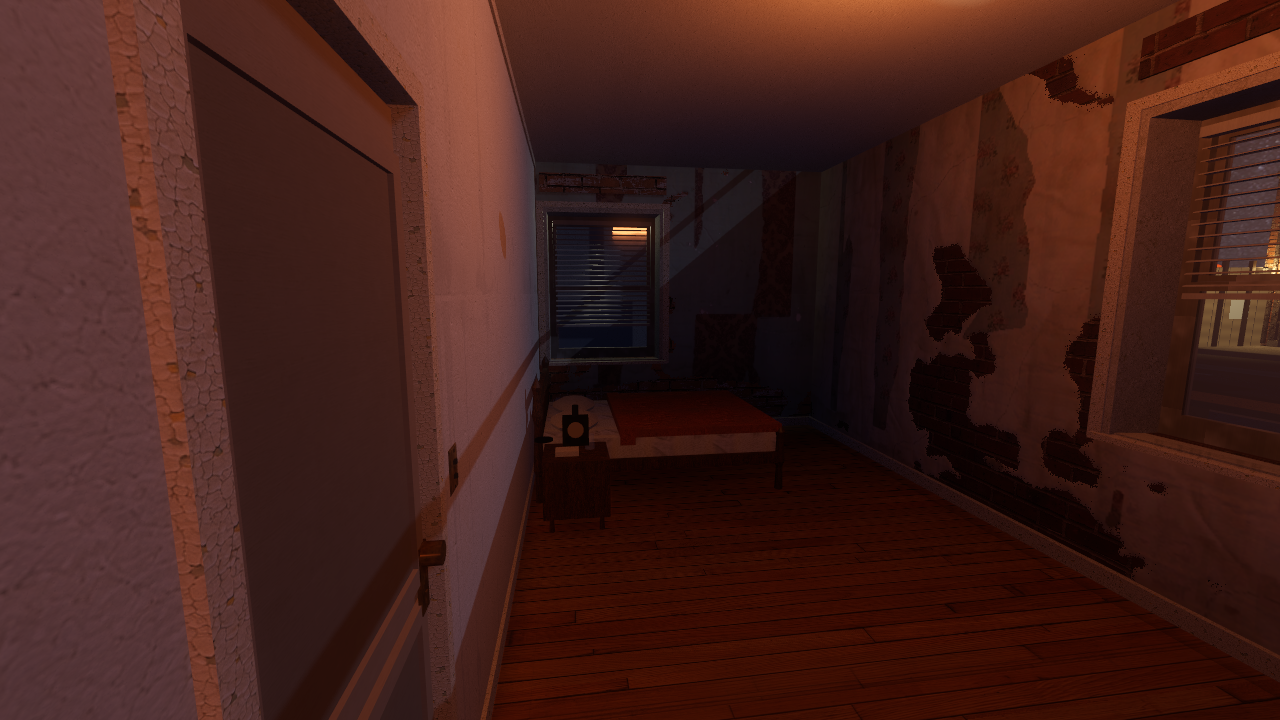
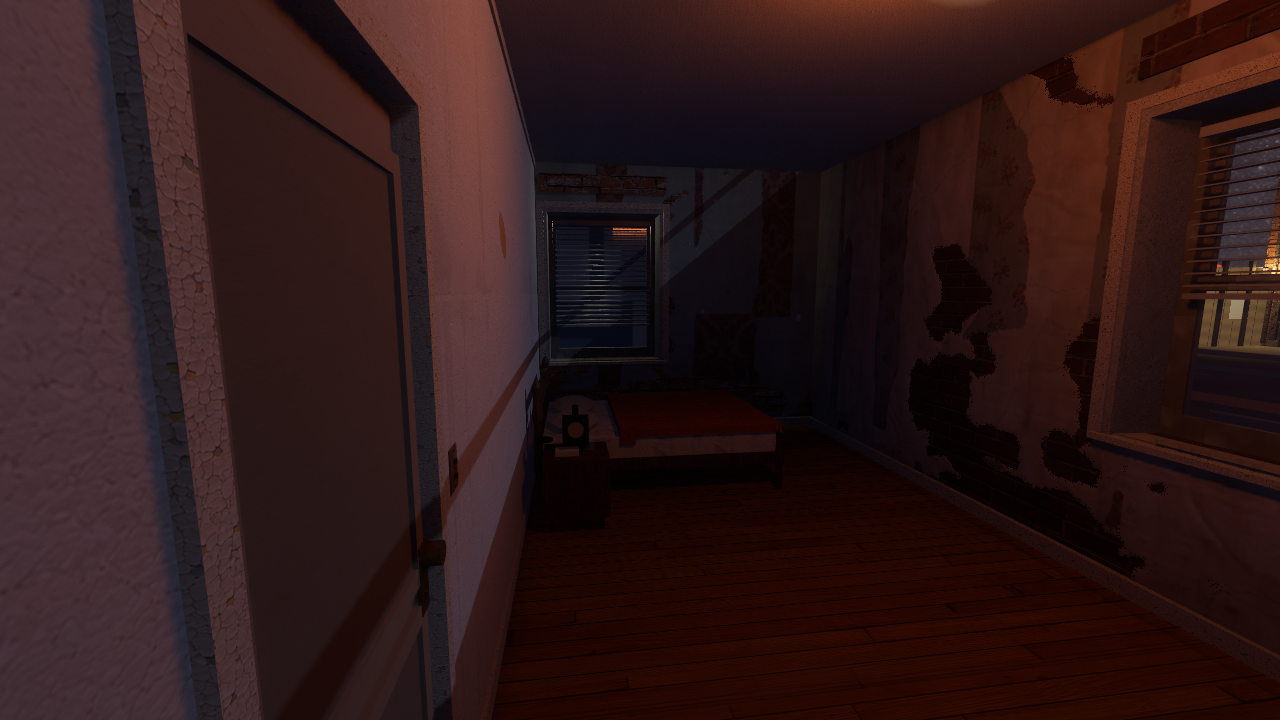
Remove projected cookie from 1D proof

diff --git a/design/ORISON_F01_1D_BEDROOM_CHECKPOINT_2026-08-27.md b/design/ORISON_F01_1D_BEDROOM_CHECKPOINT_2026-08-27.md
@@ -26,6 +26,9 @@ exterior storm effect, remains correctly outside room ownership.
 Player-height evidence is in
 `art/renders/orison_room_reconstruction/f01_1d_bedroom_checkpoint_01/`:
 `00_bedroom_from_door.png` and `01_bedside_clearance.png`.
+The proof suite uses the room circuit alone. Its former redundant player lamp
+could stamp an asynchronously baked rug-like cookie across the wall; the clean
+fixture-only recapture replaces both affected committed frames.
 
 ## Validation
 
